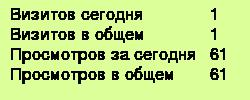
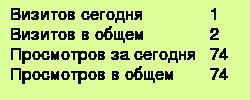
Переписал запросы в auto_spam

Changed region(s): [[0.812, 0.48, 0.924, 0.81], [0.812, 0.24, 0.896, 0.42]]

diff --git a/routes/auto_spam.js b/routes/auto_spam.js
@@ -3,86 +3,155 @@ var router = express.Router();
 var allVisits = require('../get_statistic.js');
 var pg = require('pg');
 //var conString = "postgres://danmir:@localhost/visits";
+var query = require('pg-query');
+query.connectionParameters = process.env.DATABASE_URL;
 var conString = process.env.DATABASE_URL;
 
-// Определение быстрых обращений к серверу
-router.use(function(req, res, next) {
-    console.log(conString);
-    var client = new pg.Client(conString);
-    client.connect(function(err) {
+router.use(function (req, res, next) {
+    query('SELECT ip, time from visits WHERE ip=$1::text', [req.ip], function(err, rows, result) {
         if(err) {
-            return console.error('could not connect to postgres', err);
+            return console.error('error running query', err);
         }
-        client.query("SELECT ip, time from visits WHERE ip='" + req.ip + "'", function(err, result) {
-            if(err) {
-                return console.error('error running query', err);
-            }
-            if (!result.rowCount) {
-                //console.log('Новый пользователь');
-                client.query("INSERT INTO visits (time, ip, num) VALUES (extract(epoch from now()),'" + req.ip + "', 1)", function(err, result) {
+        // Если новый пользователь, занесем его в таблицу
+        if (!result.rowCount) {
+            query('INSERT INTO visits (time, ip, num) VALUES (extract(epoch from now()), $1::text, 1)', [req.ip], function(err, rows, result) {
+                if(err) {
+                    return console.error('error running query', err);
+                }
+                // Запишем еще время этого визита
+                query('INSERT INTO visits_time (ip, time) VALUES ($1::text, CURRENT_DATE)', [req.ip], function(err, rows, result) {
                     if(err) {
                         return console.error('error running query', err);
                     }
-                    // Запишем еще время этого визита
-                    client.query("INSERT INTO visits_time (ip, time) VALUES ($1::text, CURRENT_DATE)", [req.ip], function(err, result) {
-                        if(err) {
-                            return console.error('error running query', err);
-                        }
-                        next();
-                        client.end();
-                    });
+                    next();
                 });
-            } else {
-                //console.log('Старый пользователь');
-                client.query("SELECT id, ip, time, num, (extract(epoch from now()) - time) as delta from visits WHERE ip='" + req.ip + "'", function(err, result) {
+            });
+        } else {
+           // Иначе это старый пользователь
+           // Считаем, сколько прошло с его последнего визита
+            query('SELECT id, ip, time, num, (extract(epoch from now()) - time) as delta from visits WHERE ip=$1::text', [req.ip], function(err, rows, result) {
+                if(err) {
+                    return console.error('error running query', err);
+                }
+                var timeSinceLastVisit = rows[0].delta;
+                var ipId = rows[0]['id'];
+                var ip = rows[0]['ip'];
+                var countOfVisits = parseInt(rows[0].num, 10);
+                // Обновим время последнего посещения
+                query('UPDATE visits SET time = extract(epoch from now()) WHERE id = $1::integer', [ipId], function(err, rows, result) {
                     if(err) {
                         return console.error('error running query', err);
                     }
-                    var timeSinceLastVisit = result.rows[0].delta;
-                    var ipId = result.rows[0]['id'];
-                    var ip = result.rows[0]['ip'];
-                    var countOfVisits = parseInt(result.rows[0].num, 10);
-                    //console.log(ipId, timeSinceLastVisit, countOfVisits);
-                    // Обновим время последнего посещения
-                    client.query("UPDATE visits SET time = extract(epoch from now()) WHERE id = " + ipId, function(err, result) {
+                });
+                // 30 минут неактивности - новый визит
+                if (timeSinceLastVisit >= 180000) {
+                    query('UPDATE visits SET num = $1::integer WHERE id = $2::integer', [countOfVisits + 1, ipId], function(err, rows, result) {
                         if(err) {
                             return console.error('error running query', err);
                         }
-                    });
-                    // 30 минут неактивности - новый визит
-                    if (timeSinceLastVisit >= 180000) {
-                        client.query("UPDATE visits SET num =" + (countOfVisits + 1) +  "WHERE id = " + ipId, function(err, result) {
+                        // Запишем еще время этого визита
+                        query('INSERT INTO visits_time (ip, time) VALUES ($1::text, CURRENT_DATE)', [ip], function(err, rows, result) {
                             if(err) {
                                 return console.error('error running query', err);
                             }
-                            // Запишем еще время этого визита
-                            client.query("INSERT INTO visits_time (ip, time) VALUES ($1::text, CURRENT_DATE)", [ip], function(err, result) {
-                                if(err) {
-                                    return console.error('error running query', err);
-                                }
-                                client.end();
-                            });
                         });
-                    }
-                    // Слишком быстро запросы идут
-                    // Поставим timeout
-                    // Проверим, что это не ajax запрос
-                    var is_ajax_request = req.xhr;
-                    var isRedirect = req.app.locals.isRedirected || false;
-                    console.log('isRedirect', isRedirect);
-                    console.log('isXHR', is_ajax_request);
-                    if (timeSinceLastVisit <= 0.5 && !isRedirect && !is_ajax_request) {
-                        console.log('Too fast');
-                        res.render('hacker', {visits: allVisits});
-                        client.end();
-                        return;
-                    }
-                    req.app.locals.isRedirected = false;
-                    next();
-                });
-            }
-        });
+                    });
+                }
+                // Слишком быстро запросы идут
+                // Поставим timeout
+                // Проверим, что это не ajax запрос
+                var is_ajax_request = req.xhr;
+                var isRedirect = req.app.locals.isRedirected || false;
+                console.log('isRedirect', isRedirect);
+                console.log('isXHR', is_ajax_request);
+                if (timeSinceLastVisit <= 0.5 && !isRedirect && !is_ajax_request) {
+                    console.log('Too fast');
+                    res.render('hacker', {visits: allVisits});
+                    return;
+                }
+                req.app.locals.isRedirected = false;
+                next();
+            });
+        }
     });
 });
+
+//// Определение быстрых обращений к серверу
+//router.use(function(req, res, next) {
+//    pg.connect(conString, function(err, client, done) {
+//        if(err) {
+//            return console.error('could not connect to postgres', err);
+//        }
+//        client.query("SELECT ip, time from visits WHERE ip=$1::text", [req.ip], function(err, result) {
+//            if(err) {
+//                return console.error('error running query', err);
+//            }
+//            if (!result.rowCount) {
+//                //console.log('Новый пользователь');
+//                client.query("INSERT INTO visits (time, ip, num) VALUES (extract(epoch from now()),'" + req.ip + "', 1)", function(err, result) {
+//                    if(err) {
+//                        return console.error('error running query', err);
+//                    }
+//                    // Запишем еще время этого визита
+//                    client.query("INSERT INTO visits_time (ip, time) VALUES ($1::text, CURRENT_DATE)", [req.ip], function(err, result) {
+//                        if(err) {
+//                            return console.error('error running query', err);
+//                        }
+//                        next();
+//                        client.end();
+//                    });
+//                });
+//            } else {
+//                //console.log('Старый пользователь');
+//                client.query("SELECT id, ip, time, num, (extract(epoch from now()) - time) as delta from visits WHERE ip='" + req.ip + "'", function(err, result) {
+//                    if(err) {
+//                        return console.error('error running query', err);
+//                    }
+//                    var timeSinceLastVisit = result.rows[0].delta;
+//                    var ipId = result.rows[0]['id'];
+//                    var ip = result.rows[0]['ip'];
+//                    var countOfVisits = parseInt(result.rows[0].num, 10);
+//                    //console.log(ipId, timeSinceLastVisit, countOfVisits);
+//                    // Обновим время последнего посещения
+//                    client.query("UPDATE visits SET time = extract(epoch from now()) WHERE id = " + ipId, function(err, result) {
+//                        if(err) {
+//                            return console.error('error running query', err);
+//                        }
+//                    });
+//                    // 30 минут неактивности - новый визит
+//                    if (timeSinceLastVisit >= 180000) {
+//                        client.query("UPDATE visits SET num =" + (countOfVisits + 1) +  "WHERE id = " + ipId, function(err, result) {
+//                            if(err) {
+//                                return console.error('error running query', err);
+//                            }
+//                            // Запишем еще время этого визита
+//                            client.query("INSERT INTO visits_time (ip, time) VALUES ($1::text, CURRENT_DATE)", [ip], function(err, result) {
+//                                if(err) {
+//                                    return console.error('error running query', err);
+//                                }
+//                                client.end();
+//                            });
+//                        });
+//                    }
+//                    // Слишком быстро запросы идут
+//                    // Поставим timeout
+//                    // Проверим, что это не ajax запрос
+//                    var is_ajax_request = req.xhr;
+//                    var isRedirect = req.app.locals.isRedirected || false;
+//                    console.log('isRedirect', isRedirect);
+//                    console.log('isXHR', is_ajax_request);
+//                    if (timeSinceLastVisit <= 0.5 && !isRedirect && !is_ajax_request) {
+//                        console.log('Too fast');
+//                        res.render('hacker', {visits: allVisits});
+//                        client.end();
+//                        return;
+//                    }
+//                    req.app.locals.isRedirected = false;
+//                    next();
+//                });
+//            }
+//        });
+//    });
+//});
 
 module.exports = router;

diff --git a/routes/statistic.js b/routes/statistic.js
@@ -61,7 +61,11 @@ router.use(function(req, res, next) {
                                                         if (err) {
                                                             console.log(err);
                                                         }
-                                                        req.app.locals.lastVisit = new Date(rows[0].time);
+                                                        if (rows[0]) {
+                                                            req.app.locals.lastVisit = new Date(rows[0].time);
+                                                        } else {
+                                                            req.app.locals.lastVisit = new Date();
+                                                        }
                                                         next();
                                                         client.end();
                                                     });
